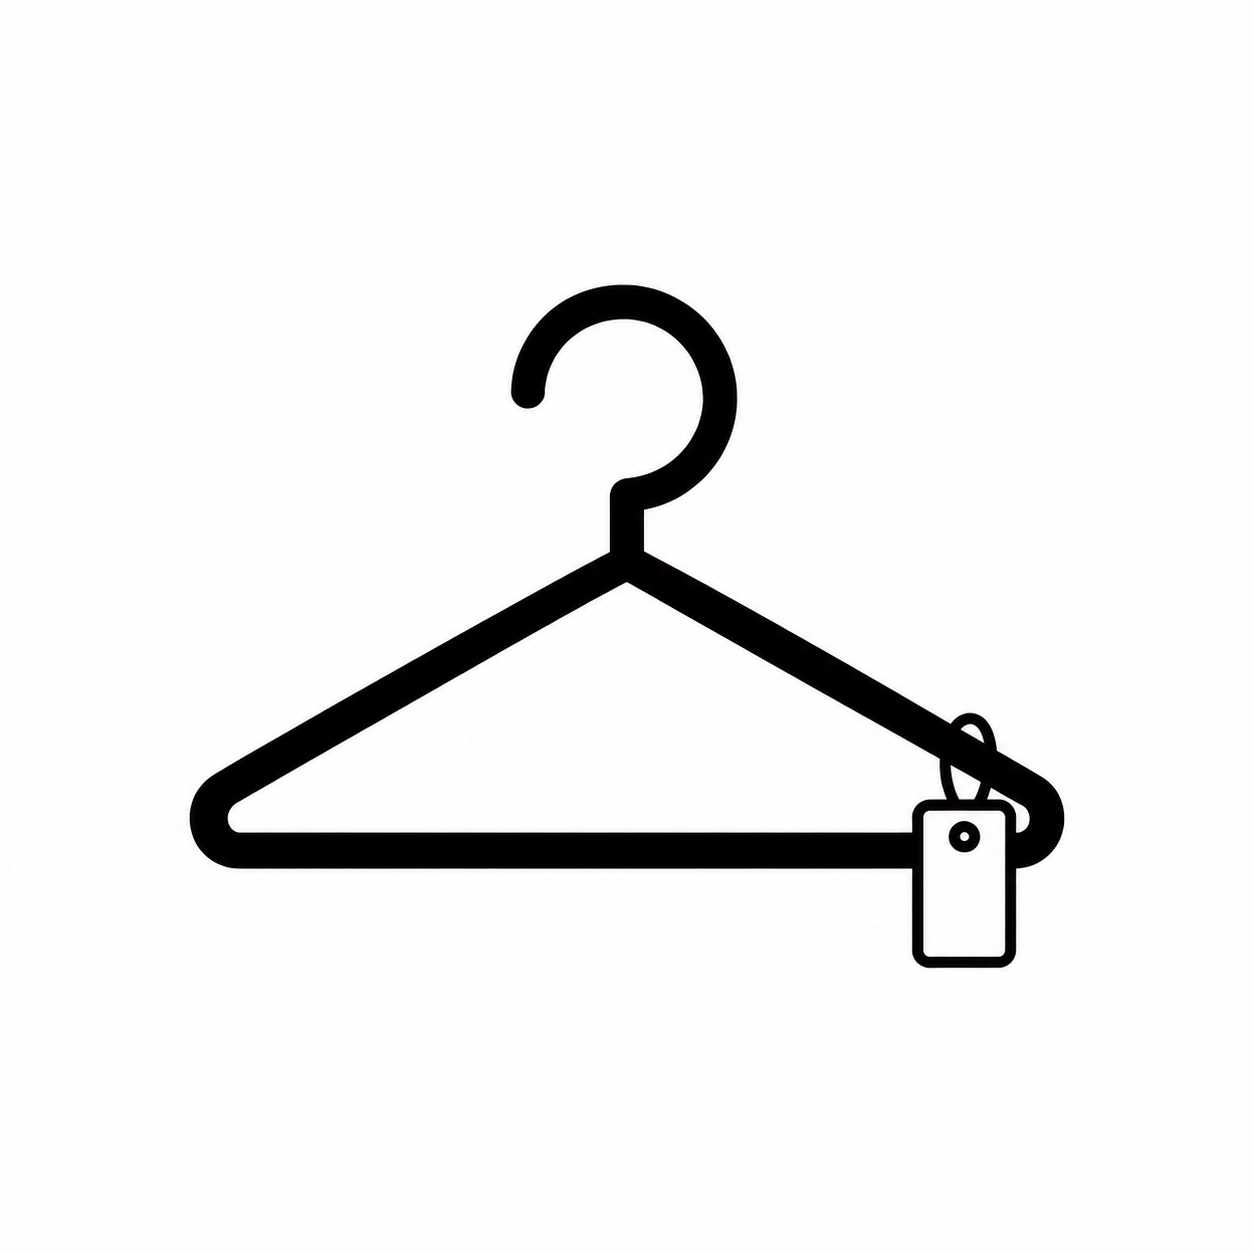
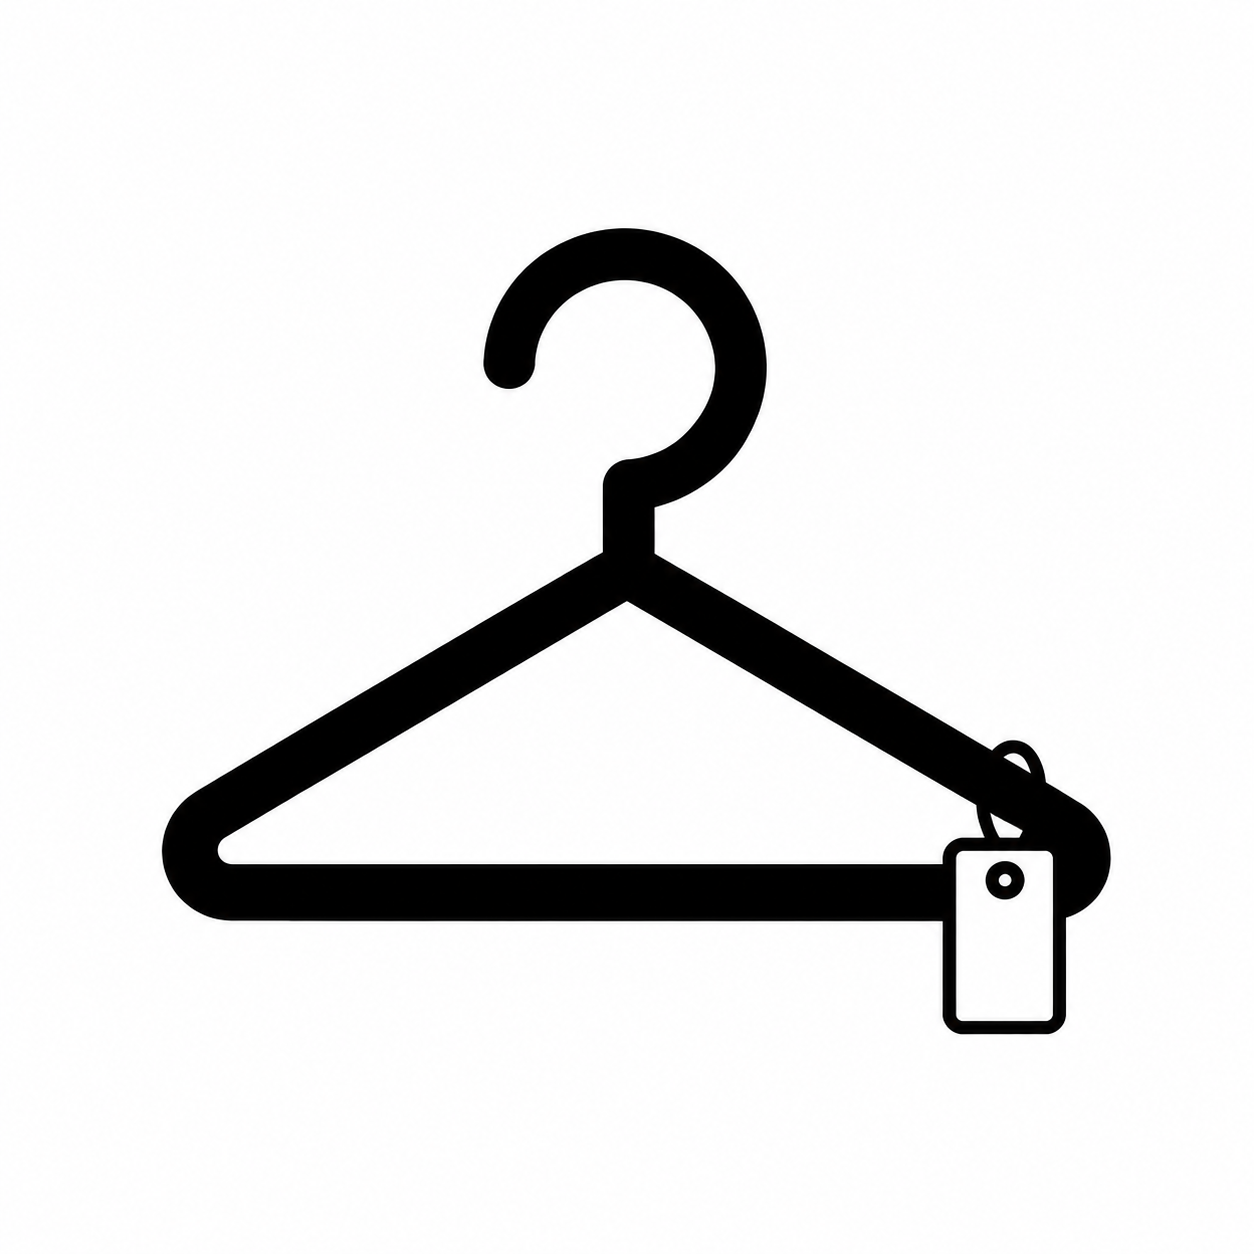
feat: restore outfit settings save functionality and update permissions

Changed region(s): [[0.1244, 0.1555, 0.9019, 0.8397]]

diff --git a/index.html b/index.html
@@ -8,6 +8,7 @@
     <meta name="apple-mobile-web-app-capable" content="yes" />
     <meta name="apple-mobile-web-app-status-bar-style" content="default" />
     <meta name="apple-mobile-web-app-title" content="Closet Index" />
+    <link rel="icon" href="%BASE_URL%favicon.ico" type="image/svg+xml" />
     <link rel="apple-touch-icon" href="%BASE_URL%apple-touch-icon.png" />
     <title>Closet Index</title>
   </head>
